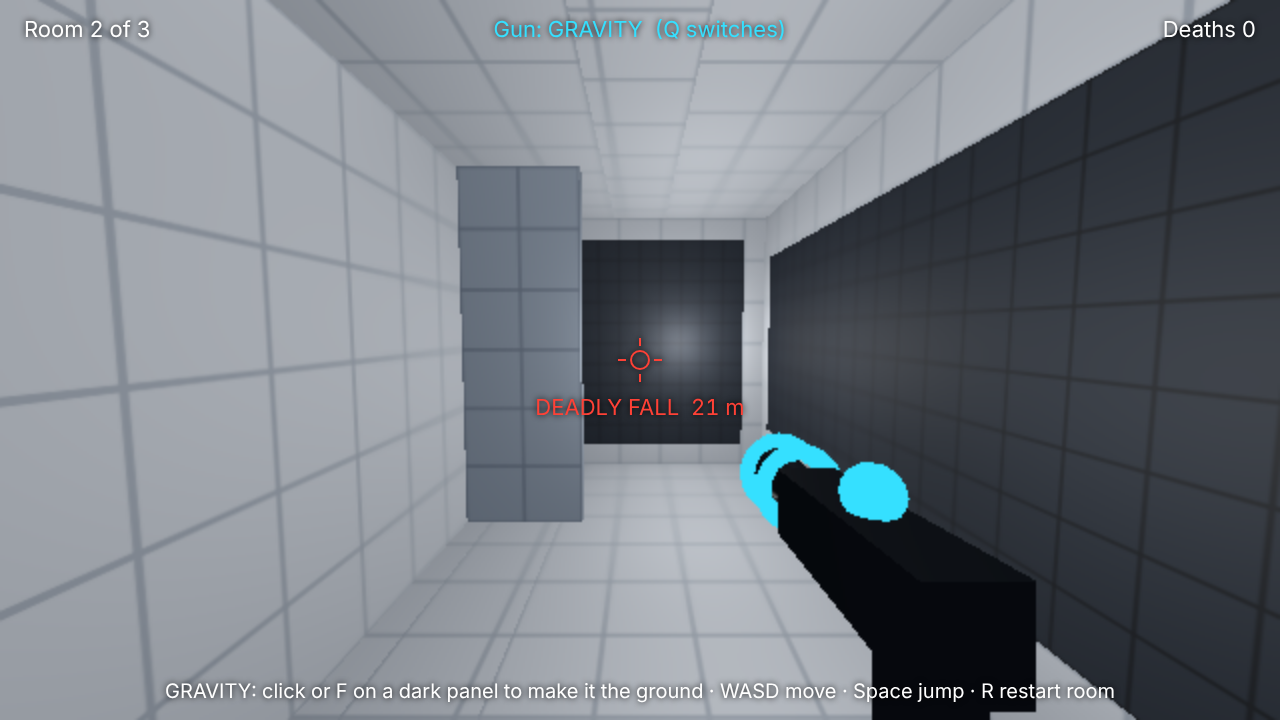
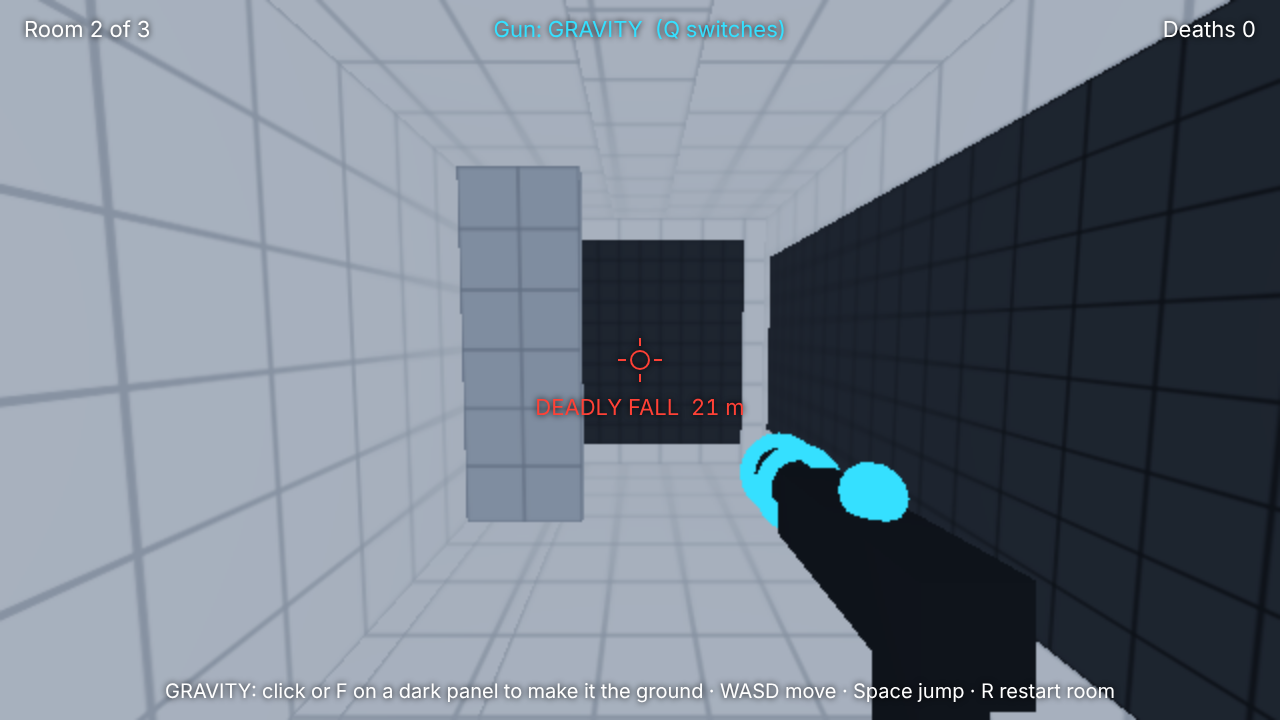
iteration 3: added low-spec mode
Brief: design/game-brief.md

Claude-Session: https://claude.ai/code/session_01TRUrYqUGcvYPQMYCKVoRh7

diff --git a/prototypes/groundshift/groundshift-single.html b/prototypes/groundshift/groundshift-single.html
@@ -4308,7 +4308,7 @@ const W = 1280, H = 720;        // logical size; a pixel look lowers it and sets
 const PIXEL = false;            // pixel looks: whole-number scale, no smoothing
 const FONT = '"Trebuchet MS", "Segoe UI", sans-serif';      // the brief's look picks the type
 const TITLE = 'Groundshift';
-const CONTROLS = ['WASD: move    Space: jump    Mouse or arrows: look', 'Q: switch the gun between GRAVITY and TRACTION', 'GRAVITY: click or F on a dark panel makes it the ground', 'TRACTION: hold click or F on the cube to lock and carry it', 'Reach the green exit door', 'R: restart room    P: pause    M: mute']; // shown on the title screen
+const CONTROLS = ['WASD: move    Space: jump    Mouse or arrows: look', 'Q: switch the gun between GRAVITY and TRACTION', 'GRAVITY: click or F on a dark panel makes it the ground', 'TRACTION: hold click or F on the cube to lock and carry it', 'Reach the green exit door', 'R: restart room    P: pause    M: mute', 'L: low-spec mode, if it runs slowly']; // shown on the title screen
 const clock = window.GAME_CLOCK || { now: () => performance.now() / 1000 }; // a check may inject one
 const CHEAP = params.get('render') === 'cheap'; // a headless shot or check: 3D draws cheap; players never see it
 let seed;
@@ -4621,10 +4621,18 @@ function updatePlay(dt) {
 const world = new THREE.Scene();
 world.background = new THREE.Color(0x0b0f14);
 const camera = new THREE.PerspectiveCamera(80, W / H, 0.05, 150);
-world.add(camera, new THREE.AmbientLight(0xdfe8f5, 0.8));
+const ambient = new THREE.AmbientLight(0xdfe8f5, 0.8), lamps = new THREE.Group();
+world.add(camera, ambient, lamps);
 for (const p of [[0, 7, -11], [0, 7, -5], [-2, 6, 5], [-2, 14, 5], [-2, 20, 5], [-1, 22, 16], [-1, 22, 22]]) {
-  const l = new THREE.PointLight(0xffffff, 30, 0, 2); l.position.set(...p); world.add(l);
+  const l = new THREE.PointLight(0xffffff, 30, 0, 2); l.position.set(...p); lamps.add(l);
 }
+// Low-spec mode (L, or ?low=1): half resolution and flat light, for a weak graphics card.
+let low = CHEAP || params.get('low') === '1';
+function setLow(on) {
+  low = on; lamps.visible = !on; ambient.intensity = on ? 2.2 : 0.8;
+  renderer.setPixelRatio(on ? 0.5 : devicePixelRatio); fit();
+}
+setLow(low);
 function panelTex(base, line, accent) {
   const c = document.createElement('canvas'); c.width = c.height = 256;
   const x = c.getContext('2d');
@@ -4733,7 +4741,7 @@ const scenes = {
     update() { if (pressed('Enter') || pressed('Space') || pressed('Mouse0')) { reset(); scene = 'play'; } },
     draw() {
       clear('#0b0f14'); text(TITLE.toUpperCase(), W / 2, H / 5, 64, '#35e0ff');
-      CONTROLS.forEach((c, i) => text(c, W / 2, H / 2 - 100 + i * 40, 26, '#dfe3e8'));
+      CONTROLS.forEach((c, i) => text(c, W / 2, H / 2 - 110 + i * 38, 26, '#dfe3e8'));
       text('Click or press Enter to start', W / 2, H - 60, 28, '#fff');
     },
   },
@@ -4765,6 +4773,7 @@ const scenes = {
 // ---- Loop: fixed step, frame time clamped ---------------------------------------------
 function step() {
   if (pressed('KeyM')) { setMuted(!muted); hit.delete('KeyM'); }
+  if (pressed('KeyL')) { setLow(!low); hit.delete('KeyL'); }
   scenes[scene].update(STEP); hit.clear();
 }
 let last, acc = 0, ALPHA = 1; // ALPHA: how far the frame is between the last two steps

diff --git a/prototypes/groundshift/index.html b/prototypes/groundshift/index.html
@@ -42,7 +42,7 @@ const W = 1280, H = 720;        // logical size; a pixel look lowers it and sets
 const PIXEL = false;            // pixel looks: whole-number scale, no smoothing
 const FONT = '"Trebuchet MS", "Segoe UI", sans-serif';      // the brief's look picks the type
 const TITLE = 'Groundshift';
-const CONTROLS = ['WASD: move    Space: jump    Mouse or arrows: look', 'Q: switch the gun between GRAVITY and TRACTION', 'GRAVITY: click or F on a dark panel makes it the ground', 'TRACTION: hold click or F on the cube to lock and carry it', 'Reach the green exit door', 'R: restart room    P: pause    M: mute']; // shown on the title screen
+const CONTROLS = ['WASD: move    Space: jump    Mouse or arrows: look', 'Q: switch the gun between GRAVITY and TRACTION', 'GRAVITY: click or F on a dark panel makes it the ground', 'TRACTION: hold click or F on the cube to lock and carry it', 'Reach the green exit door', 'R: restart room    P: pause    M: mute', 'L: low-spec mode, if it runs slowly']; // shown on the title screen
 const clock = window.GAME_CLOCK || { now: () => performance.now() / 1000 }; // a check may inject one
 const CHEAP = params.get('render') === 'cheap'; // a headless shot or check: 3D draws cheap; players never see it
 let seed;
@@ -355,10 +355,18 @@ function updatePlay(dt) {
 const world = new THREE.Scene();
 world.background = new THREE.Color(0x0b0f14);
 const camera = new THREE.PerspectiveCamera(80, W / H, 0.05, 150);
-world.add(camera, new THREE.AmbientLight(0xdfe8f5, 0.8));
+const ambient = new THREE.AmbientLight(0xdfe8f5, 0.8), lamps = new THREE.Group();
+world.add(camera, ambient, lamps);
 for (const p of [[0, 7, -11], [0, 7, -5], [-2, 6, 5], [-2, 14, 5], [-2, 20, 5], [-1, 22, 16], [-1, 22, 22]]) {
-  const l = new THREE.PointLight(0xffffff, 30, 0, 2); l.position.set(...p); world.add(l);
+  const l = new THREE.PointLight(0xffffff, 30, 0, 2); l.position.set(...p); lamps.add(l);
 }
+// Low-spec mode (L, or ?low=1): half resolution and flat light, for a weak graphics card.
+let low = CHEAP || params.get('low') === '1';
+function setLow(on) {
+  low = on; lamps.visible = !on; ambient.intensity = on ? 2.2 : 0.8;
+  renderer.setPixelRatio(on ? 0.5 : devicePixelRatio); fit();
+}
+setLow(low);
 function panelTex(base, line, accent) {
   const c = document.createElement('canvas'); c.width = c.height = 256;
   const x = c.getContext('2d');
@@ -467,7 +475,7 @@ const scenes = {
     update() { if (pressed('Enter') || pressed('Space') || pressed('Mouse0')) { reset(); scene = 'play'; } },
     draw() {
       clear('#0b0f14'); text(TITLE.toUpperCase(), W / 2, H / 5, 64, '#35e0ff');
-      CONTROLS.forEach((c, i) => text(c, W / 2, H / 2 - 100 + i * 40, 26, '#dfe3e8'));
+      CONTROLS.forEach((c, i) => text(c, W / 2, H / 2 - 110 + i * 38, 26, '#dfe3e8'));
       text('Click or press Enter to start', W / 2, H - 60, 28, '#fff');
     },
   },
@@ -499,6 +507,7 @@ const scenes = {
 // ---- Loop: fixed step, frame time clamped ---------------------------------------------
 function step() {
   if (pressed('KeyM')) { setMuted(!muted); hit.delete('KeyM'); }
+  if (pressed('KeyL')) { setLow(!low); hit.delete('KeyL'); }
   scenes[scene].update(STEP); hit.clear();
 }
 let last, acc = 0, ALPHA = 1; // ALPHA: how far the frame is between the last two steps

diff --git a/design/game-brief.md b/design/game-brief.md
@@ -30,11 +30,13 @@ After play: 1. in a sense - but with flavour. This uses a different setting on t
 3. landing feedback
 4. real physics
 
+After play: My machine is too low spec to test this prototype. Provide me access to your virtual machine so I can test.
+
 **Pitch:** Trapped in a test facility, you shoot a wall to make it the floor, and everything loose falls with you.
 
 **Genre:** first-person 3D puzzle platformer
 
-**Controls:** WASD move, Space jump, mouse or arrow keys look, Q switch the gun's setting, click or F fire (GRAVITY) or hold to lock and carry (TRACTION), R restart room, P pause, M mute.
+**Controls:** WASD move, Space jump, mouse or arrow keys look, Q switch the gun's setting, click or F fire (GRAVITY) or hold to lock and carry (TRACTION), R restart room, P pause, M mute, L low-spec mode.
 
 **Question:** Does a three-room level built on the gravity gun make a satisfying puzzle from start to exit?
 
@@ -75,6 +77,7 @@ The first real think is room two, about a minute in: the next dark panel is far 
 - [x] Gravitational traction: a second gun setting that slowly locks an object in a ball of stasis and carries it on the beam
 - [x] Landing feedback scaled to how hard you land
 - [x] Real physics: the cube tumbles, a ramp, gravity can point along any surface
+- [x] Low-spec mode (L): half resolution and flat light
 
 ## Your systems
 - gravity gun · in the slice

diff --git a/prototypes/groundshift/brief.md b/prototypes/groundshift/brief.md
@@ -30,11 +30,13 @@ After play: 1. in a sense - but with flavour. This uses a different setting on t
 3. landing feedback
 4. real physics
 
+After play: My machine is too low spec to test this prototype. Provide me access to your virtual machine so I can test.
+
 **Pitch:** Trapped in a test facility, you shoot a wall to make it the floor, and everything loose falls with you.
 
 **Genre:** first-person 3D puzzle platformer
 
-**Controls:** WASD move, Space jump, mouse or arrow keys look, Q switch the gun's setting, click or F fire (GRAVITY) or hold to lock and carry (TRACTION), R restart room, P pause, M mute.
+**Controls:** WASD move, Space jump, mouse or arrow keys look, Q switch the gun's setting, click or F fire (GRAVITY) or hold to lock and carry (TRACTION), R restart room, P pause, M mute, L low-spec mode.
 
 **Question:** Does a three-room level built on the gravity gun make a satisfying puzzle from start to exit?
 
@@ -75,6 +77,7 @@ The first real think is room two, about a minute in: the next dark panel is far 
 - [x] Gravitational traction: a second gun setting that slowly locks an object in a ball of stasis and carries it on the beam
 - [x] Landing feedback scaled to how hard you land
 - [x] Real physics: the cube tumbles, a ramp, gravity can point along any surface
+- [x] Low-spec mode (L): half resolution and flat light
 
 ## Your systems
 - gravity gun · in the slice
